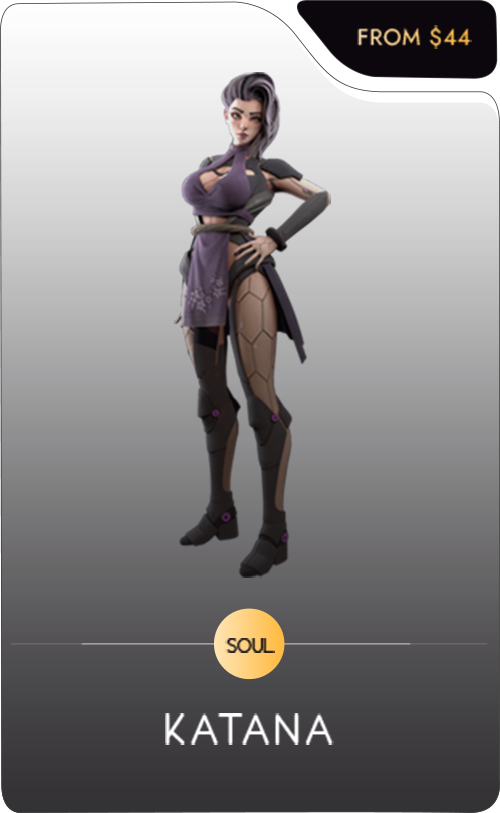
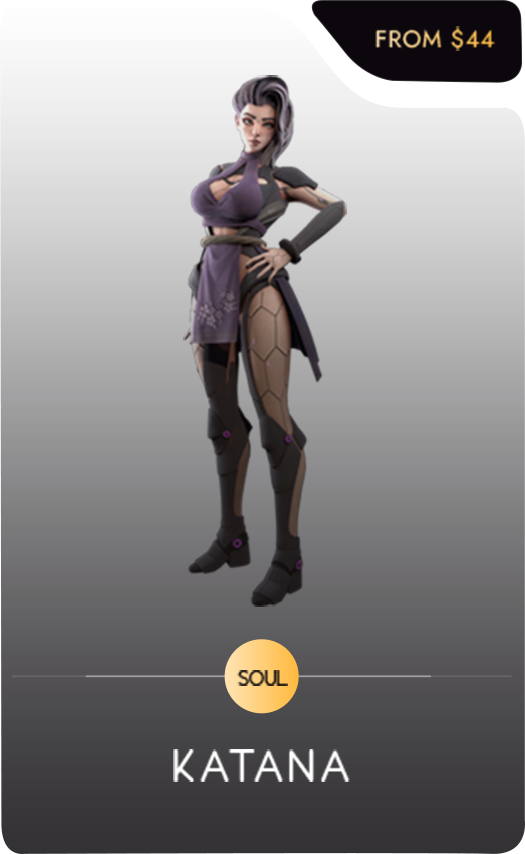
udate sessionNFT carousel homepage

Changed region(s): [[0.99, 0.123, 1.0, 0.8918], [0.0, 0.1845, 0.03, 0.5843], [0.0, 0.0, 0.03, 0.0308]]

diff --git a/src/components/homepage/Carousel.tsx b/src/components/homepage/Carousel.tsx
@@ -34,9 +34,7 @@ const Item = ({ key, item }) => {
 
     )
 }
-const Item_NFT = ({ key, item }) => {
 
-}
 const ListCollections = ({ type, options }) => {
     return (
         <>
@@ -45,8 +43,8 @@ const ListCollections = ({ type, options }) => {
                     <Carousel>
                         {
                             options.map((item, i) =>
-                                <Paper>
-                                    <div key={i} className="bg-black">
+                                <Paper className="!bg-transparent">
+                                    <div key={i} className="bg-transparent flex justify-center">
                                         <img src={item}/>
                                     </div>
                                 </Paper>)

diff --git a/src/components/homepage/SessionNFTs.tsx b/src/components/homepage/SessionNFTs.tsx
@@ -23,7 +23,7 @@ const SessionNFTs = () => {
                     )}
                 </div>
             </div>
-            <div className="block lg:hidden w-[90%] mt-6">
+            <div className="block lg:hidden w-[90%] mt-6 bg-transparent">
                 <Carousel type={"NFT"} options={listNft} />
             </div>
         </>
